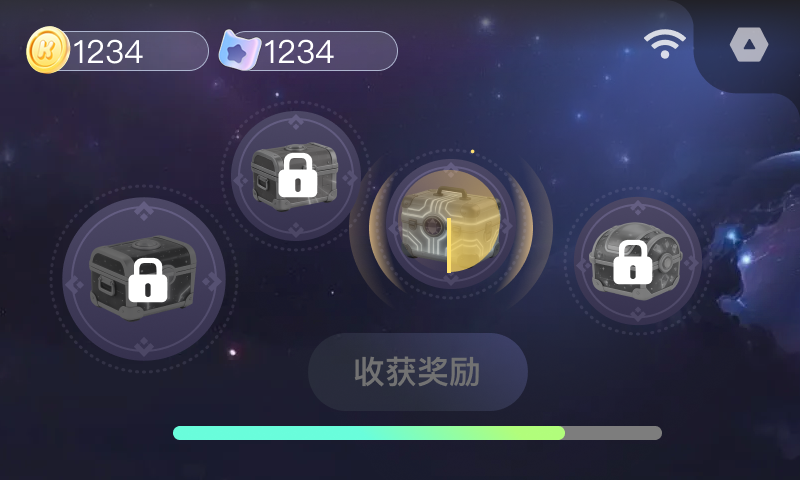
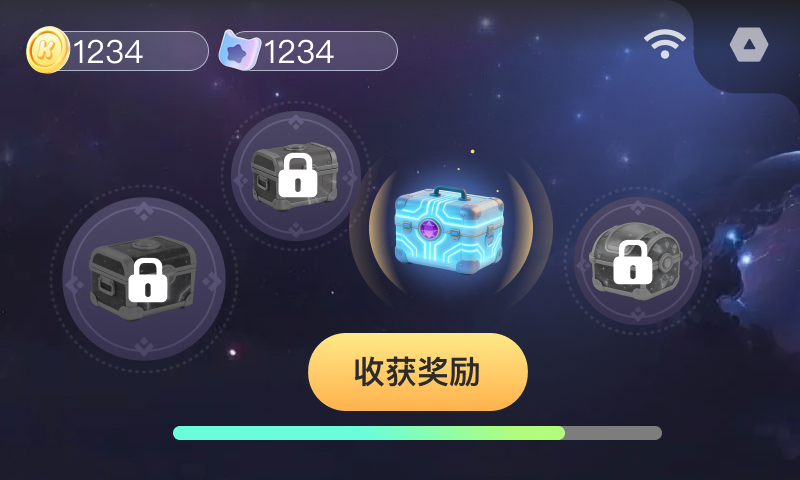
feat(P003): D4 P7 出航 4 张图替换为川哥新素材（按视觉用途映射 stage）
川哥指定源路径 /Users/rayman.chen/Documents/P003 Game demo/UI界面/出航模式/
共 7 张新图，按**视觉用途**映射到现有代码 stage 命名（不是文件名 1-7 严格对应，
因为 出航1 是过渡帧 / 出航2 才是 launching 主图，文件名顺序与代码语义不一致）：

| 新源 | 落盘 | 视觉用途 |
| 出航2 | 01-launching | 近景小可飞船 + "出航"大字 |
| 出航1 | 02-transition | 远景缩略 + 螺旋星空 |
| 出航3 | 03-locked     | 4 锁宝箱 |
| 出航4 | 04-active     | 第 2 圈金色旋转环 |
| 出航5 | 05-active-rotating | 第 3 圈宝箱形状（灰）|
| 出航6 | 06-openable   | 中间宝箱蓝色光晕 |
| 出航7 | 07-full       | x2 宝箱 + 橙色按钮 |

实际变更只有 04/05/06/07 字节级真变化（01/02/03 与之前同源 PNG）。
08-handoff.png 保留旧版（新源未提供对应，rewarding state 视觉不动）。

老 8 张备份 /tmp/focus-running-old/（不进库）。
FocusRunning.tsx 代码零修改（文件名不变 → STAGE_IMAGE_MAP 不动）。

⚠ 潜在体验风险：04 (第 2 圈) 与 05 (第 3 圈) 视觉位置不同，
做 active 伪旋转环 crossfade（每 1.5s 切换）可能"穿帮"，
看起来像"切换"而非"旋转"。先让川哥真机看，必要时关闭
alternateEnabled 或重新映射。

验收：
- npm run check:scope: PASS
- npm run build: PASS
- E2E 七段: PASS, 0 errors, 0 404s
- p5 subtitle test: focusRunning locked 截图正常 + 字幕条显示

Changed region(s): [[0.375, 0.6875, 0.6875, 0.875], [0.4688, 0.3125, 0.6562, 0.625]]

diff --git a/2-Projects/P003GameDemo20260513/docs/D4-focus-art-decisions.md b/2-Projects/P003GameDemo20260513/docs/D4-focus-art-decisions.md
@@ -114,7 +114,30 @@ focusMode: 'explore' | 'companion'  // 已存在，复用
 | P3 过渡 | ✅ done | 9f207bd6e | 2026-05-15 14:20 |
 | P4 交接 | ✅ done | abc5bd389 | 2026-05-15 14:42 |
 | P5 字幕修复 | ✅ done | b8806fa16 | 2026-05-15 17:22 |
-| P6 静思图替换 | ✅ done | TBD（本 commit） | 2026-05-16 13:38 |
+| P6 静思图替换 | ✅ done | 33f693771 | 2026-05-16 13:38 |
+| P7 出航图替换 | ✅ done | TBD（本 commit） | 2026-05-16 13:58 |
+
+## 15. P7 出航图替换（川哥指定 7 张新素材）
+
+**川哥决策**：源路径 `/Users/rayman.chen/Documents/P003 Game demo/UI界面/出航模式/` 共 7 张新图。
+
+**映射策略**：**按视觉用途**（不是文件名数字 1-7 严格对应），保证代码 launching/transition/locked/active/active-rotating/openable/full 各 stage 视觉链路正确。
+
+| 新文件 | → 落盘 | 用途 | 视觉 |
+|---|---|---|---|
+| 出航2.png | 01-launching.png | launching 主图 | 近景小可飞船舱 + "出航"霓虹大字 |
+| 出航1.png | 02-transition.png | launching→running 过渡 | 远景缩略小可 + 螺旋星空 |
+| 出航3.png | 03-locked.png | locked | 4 锁宝箱 + 灰按钮 |
+| 出航4.png | 04-active.png | active 第 2 圈 | 金色旋转环 |
+| 出航5.png | 05-active-rotating.png | active 伪旋转环辅助 | 第 3 圈中间宝箱形状（灰）|
+| 出航6.png | 06-openable.png | openable | 中间宝箱蓝色光晕 |
+| 出航7.png | 07-full.png | full | x2 宝箱 + 橙色"收获奖励"按钮 |
+| —（不替换）| 08-handoff.png | rewarding state 静止图 | 旧版保留（新源未提供对应）|
+
+**老 8 张备份**：`/tmp/focus-running-old/`（不进库）。
+**FocusRunning.tsx 代码零修改**（文件名不变所以映射 STAGE_IMAGE_MAP 不动）。
+**潜在体验风险**：04 (第 2 圈) 和 05 (第 3 圈) 视觉位置不同，做伪旋转环 crossfade 可能"穿帮"。先上让川哥真机看，必要时关闭 alternateEnabled 或重做映射。
+**验收**：check:scope + build + e2e + p5 subtitle test 全 PASS，0 errors。
 
 ## 14. P6 静思图重制（川哥指定新素材）
 
